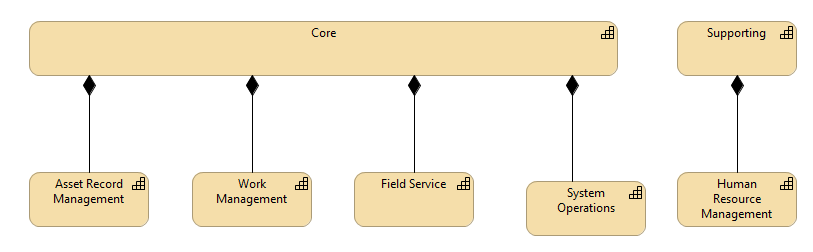
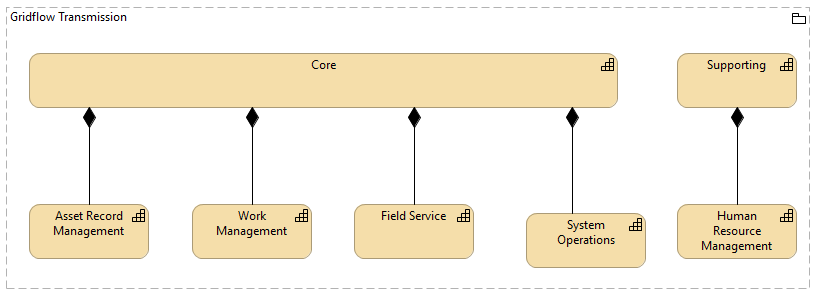
small cosmetic changes

diff --git a/src/content/blog/PEM/04/PEM-04.md b/src/content/blog/PEM/04/PEM-04.md
@@ -1,6 +1,6 @@
 ---
 title: "Setting up an Architecture Repository in Archi"
-publishDate: "2026-09-10"
+publishDate: "2026-09-23"
 tags: ["Pragmatic Enterprise Modeling", "architecture"]
 slug: setting-up-an-architecture-repository-in-archi
 description: Setting up an Architecture Repository in Archi
